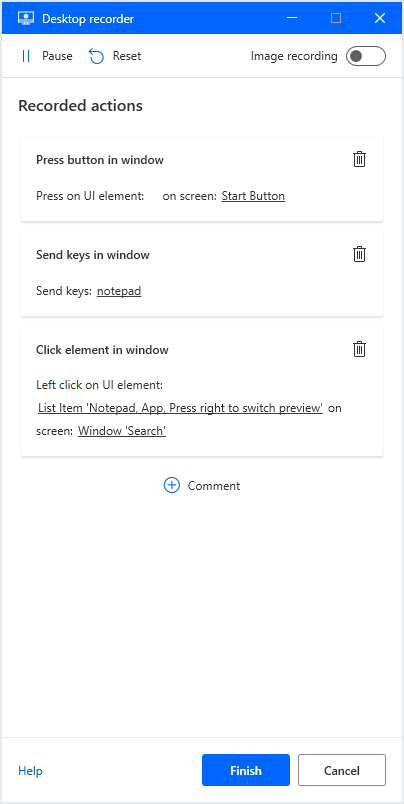
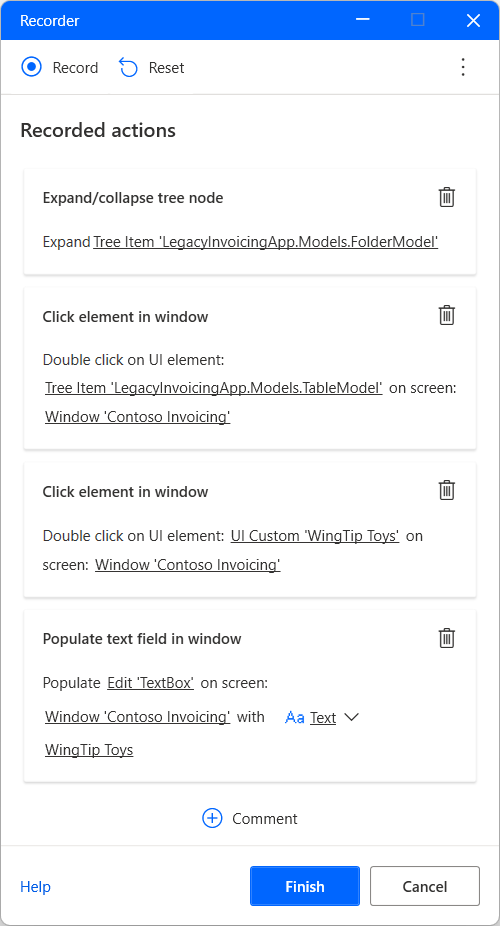
Updated content in Generate Power Automate for desktop flows by recording part2

diff --git a/learn-bizapps-pr/flow/pad-power-automate-desktop-recording-features/includes/3-exercise-recording-web-flows.md b/learn-bizapps-pr/flow/pad-power-automate-desktop-recording-features/includes/3-exercise-recording-web-flows.md
@@ -1,0 +1,29 @@
+To become familiar with automating web tasks using the recorder, follow the presented instructions to develop a web-based flow. The flow will convert a set amount of USA dollars to euros using the MSN currency converter tool.
+
+To record the flow:
+
+1. Create a new desktop flow and select **Recorder** in the flow designer. 
+
+1. When the recorder dialog is launched, select the dots icon of the right side of it and choose the browser you want to use for the automation.
+
+    ![Screenshot of the launch new browser option in the recorder window.](..\media\launch-new-browser-recorder.png)
+
+1. After selecting the browser, a browser window will open automatically. Start recording and use this window to navigate to the [MSN currency converter page](https://www.msn.com/en-us/money/tools/currencyconverter).
+
+    ![Screenshot of the MSN currency converter page.](..\media\msn-currency-converter-page.png)
+
+1. Set the drop-down menus of the converter to **United States Dollar** and **Euro**, respectively.
+
+    ![Screenshot of the currency drop-down menus in the MSN currency converter page.](..\media\msn-currency-converter-page-drop-down-menus.png)
+
+1. Populate the amount of USA dollars to convert in the appropriate field of the page.
+
+    ![Screenshot of the populated USA dollar field in the MSN currency converter page.](..\media\msn-currency-converter-page-populated-dollars.png)
+
+1. Select the field with the converted euros, right-click on it, and extract its value.
+
+    ![Screenshot of the option to extract the converted euros from the MSN currency converter page.](..\media\msn-currency-converter-page-extracted-euros.png)
+
+1. Finally, press **Finish** to add all the automatically generated actions to the flow. These actions are no different from any others: they can be moved, edited, or deleted.
+
+    ![Screenshot of the generated actions in the workspace.](..\media\recorder-generated-actions-workspace.png)

diff --git a/learn-bizapps-pr/flow/pad-power-automate-desktop-recording-features/includes/2-recording-actions.md b/learn-bizapps-pr/flow/pad-power-automate-desktop-recording-features/includes/2-recording-actions.md
@@ -1,4 +1,4 @@
-The recorder is used to assist users in the development of flows. Using a recorder, users can perform tasks manually, and Power Automate for desktop will automatically generate actions to mimick their behavior.
+The recorder is used to assist users in the development of flows. Using the recorder, users can perform tasks manually, and Power Automate for desktop will automatically generate actions to mimick their behavior.
 
 The recorder can be used to automate two different kinds of applications: 
 
@@ -11,14 +11,16 @@ When recording desktop applications, the recorder generates UI automation, mouse
 
 To record a flow, select **Recorder** in the toolbar of the flow designer.
   
-![Screenshot of the flow designer recorder buttons.](..\media\flow-designer-recorder-buttons.png)
+![Screenshot of the recorder button in the flow designer.](..\media\flow-designer-recorder-button.png)
 
 When the recorder dialog is launched, select **Record** to start recording.
 
-![Screenshot of the desktop web recorder window.](..\media\desktop-web-recorder-window.png)
+![Screenshot of the recorder window.](..\media\recorder-window.png)
 
 This dialog is where a preview of the recorded actions will appear during the recording:
 
-![Screenshot of the recorded actions in the Desktop recorder window.](..\media\recorded-actions.png)
+![Screenshot of the recorded steps in the recorder window.](..\media\recorded-actions.png)
 
 To suspend the recording, select **Pause**. When the recording is completed, select **Finish** to convert the recorded steps to Power Automate for desktop actions.
+
+![Screenshot of the generated actions in the flow designer.](..\media\generated-actions.png)

diff --git a/learn-bizapps-pr/flow/pad-power-automate-desktop-recording-features/includes/4-exercise-recording-desktop-flows.md b/learn-bizapps-pr/flow/pad-power-automate-desktop-recording-features/includes/4-exercise-recording-desktop-flows.md
@@ -1,0 +1,27 @@
+Similarly to web-related flows, you can use the recorder to automate local desktop applications and Windows.
+
+In this exercise, you'll automate a desktop-related task to get a better grasp of the recorder's functionality in desktop automation. 
+
+1. Launch Power Automate for desktop and create a new desktop flow.
+
+1. Deploy the **Run application** action and configure it as presented below:
+
+   ![Screenshot of the Run application action.](..\media\run-application-action-exercise.png)
+
+1. Launch Excel, either manually or by running the flow.
+
+1. Select the **Recorder** button in the flow designer to launch the recorder.
+
+   ![Screenshot of the recorder button in the flow designer.](..\media\recorder-button-exercise.png)
+
+1. Select **Blank workbook** in the open Excel window to create a new empty workbook.
+
+1. Select the entire first row, and then assign it a background color.
+
+1. In this step, the recorder window should look like the following example. Optionally, you can add comments to describe the purpose of its step.
+
+   ![Screenshot of the recorded steps.](..\media\recorded-actions-exercise.png)
+
+1. Lastly, press **Finish** to generate the corresponding actions in the flow designer.
+
+   ![Screenshot of the generated actions in the workspace.](..\media\generated-actions-workspace.png)

diff --git a/learn-bizapps-pr/flow/pad-power-automate-desktop-recording-features/includes/6-summary.md b/learn-bizapps-pr/flow/pad-power-automate-desktop-recording-features/includes/6-summary.md
@@ -1,1 +1,1 @@
-The recorder automatically interprets users' actions and generates blocks of actions that achieve the same result. The recording of desktop applications generates UI automation, mouse, and keyboard actions. Likewise, the recording of web applications generates web browser-related actions. Automatically generated actions may be viewed and edited, both during and after the recording.
+The recorder automatically interprets users' steps and generates blocks of actions that achieve the same result. The recording of desktop applications generates UI automation, mouse, and keyboard actions. Likewise, the recording of web applications generates web browser-related actions. Automatically generated actions may be viewed and edited, both during and after the recording.
